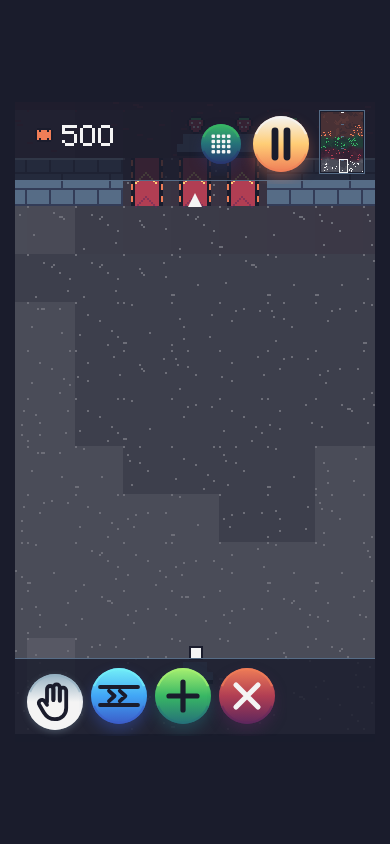
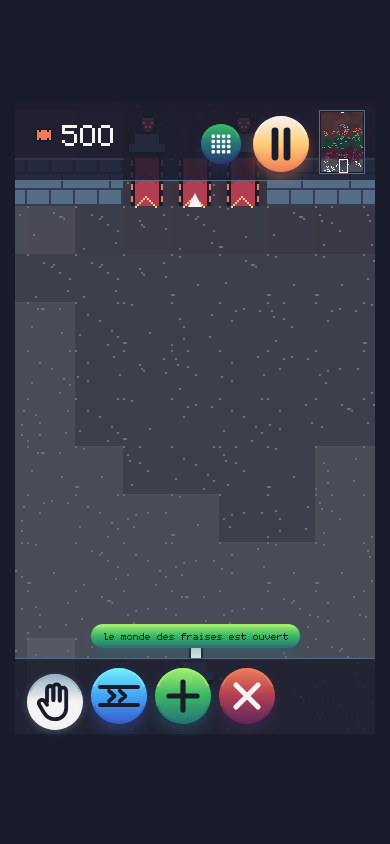
Le bandeau sort du bas, et il a maigri
Il descendait du voile du haut, où il couvrait le compteur et la mini-carte, et
il passait par-dessus le menu pause. Il sort maintenant du voile du bas et
s'arrête juste au-dessus de la barre d'outils, sans jamais la toucher ; il ne
se montre pas du tout quand le menu pause est ouvert — on ne parle pas
par-dessus ce que le joueur est en train de lire.

Vingt-quatre unités de haut au lieu de trente-quatre : une nouvelle n'a pas à
peser.

`TOAST=...` le fait sortir en capture, sans attendre qu'un mur tombe.

Claude-Session: https://claude.ai/code/session_01Mr2xn8QvzTJXAxHSUxQHqT

diff --git a/src/render/toast.js b/src/render/toast.js
@@ -1,20 +1,27 @@
 // Le bandeau qui annonce quelque chose et s'en va. Ne modifie jamais l'état.
 //
 // Il n'y en a qu'un à la fois et il ne se touche pas : c'est une nouvelle, pas
-// une question. Rien dans le jeu ne l'attend — il se pose sous le voile du
-// haut, reste le temps qu'on le lise, et repart par où il est venu.
+// une question. Rien dans le jeu ne l'attend — il sort du voile du bas, reste
+// le temps qu'on le lise, et repart par où il est venu.
+//
+// **En bas de la fenêtre de jeu, jamais sur ce qu'on touche.** Il descendait
+// du haut et couvrait le compteur et la mini-carte ; il se pose maintenant
+// juste au-dessus de la barre d'outils, à l'intérieur de la zone sûre, et il
+// s'efface quand le menu pause est ouvert : on ne parle pas par-dessus ce que
+// le joueur est en train de lire.
 //
 // C'est aujourd'hui la mise à jour qui s'en sert, et elle seule.
 
-import { PALETTE, LARGEUR_LOGIQUE, BANDEAU_HAUT, TEXTE_PETIT } from '../design.js';
+import { PALETTE, LARGEUR_LOGIQUE, BANDEAU_BAS, TEXTE_PETIT } from '../design.js';
 import { dessinerMotCentre, largeurMot } from './texte.js';
 import { dessinerPilule, teinteDe } from './plaque.js';
 
 const ENTREE = 0.22;   // secondes : la descente
 const TENUE = 3.6;     // secondes : le temps de lire
 const SORTIE = 0.4;    // secondes : la remontée
-const HAUTEUR = 34;
-const MARGE = 18;      // de chaque côté du mot
+const HAUTEUR = 24;    // il était de 34 : une nouvelle n'a pas à peser
+const MARGE = 12;      // de chaque côté du mot
+const ECART = 10;      // entre le bandeau et le haut de la barre d'outils
 
 let toast = null;
 
@@ -44,10 +51,12 @@ export function dessinerToast(ctx) {
   if (!toast) return;
   const { p, alpha } = place(toast.age);
   const l = Math.round(largeurMot(toast.texte, TEXTE_PETIT)) + MARGE * 2;
+  // Il monte de sous le voile du bas : il en sort, il n'apparaît pas, et il
+  // s'arrête juste au-dessus de la barre d'outils.
+  const repos = BANDEAU_BAS.y - ECART - HAUTEUR;
   const r = {
     x: Math.round((LARGEUR_LOGIQUE - l) / 2),
-    // Il glisse de sous le voile du haut : il en sort, il n'apparaît pas.
-    y: Math.round(BANDEAU_HAUT.h - HAUTEUR + (HAUTEUR + 14) * p),
+    y: Math.round(BANDEAU_BAS.y + (repos - BANDEAU_BAS.y) * p),
     l,
     h: HAUTEUR,
   };

diff --git a/src/main.js b/src/main.js
@@ -163,6 +163,9 @@ globalThis.sonde = {
   // Regarder tout de suite, sans attendre l'intervalle : c'est ainsi que
   // outils éprouve la mise à jour.
   veille: () => majVeille(1e9),
+  // Faire sortir un bandeau sans attendre qu'un mur tombe ou qu'une version
+  // arrive : c'est ainsi qu'on le regarde en capture.
+  annoncer: (t, c) => annoncer(t, c),
 };
 
 // Ce qui vient d'être construit lance sa gerbe d'étoiles, ce qui vient d'être
@@ -290,8 +293,9 @@ demarrerBoucle(
     dessinerHalo(ctx, etape, jeu.tutoriel ? jeu.tutoriel.age : 0);
     dessinerBandeau(ctx, etape, avancement(jeu.tutoriel));
     dessinerHud(ctx, jeu.monde, fps, interfaceJeu);
-    // Le bandeau passe au-dessus de tout, menu pause compris : c'est une
-    // nouvelle, et elle ne se cache derrière rien.
-    dessinerToast(ctx);
+    // Le bandeau se pose au-dessus de la barre d'outils, jamais sur elle — et
+    // pas du tout quand le menu pause est ouvert : on ne parle pas par-dessus
+    // ce que le joueur est en train de lire.
+    if (!interfaceJeu.menuPause) dessinerToast(ctx);
   },
 );
